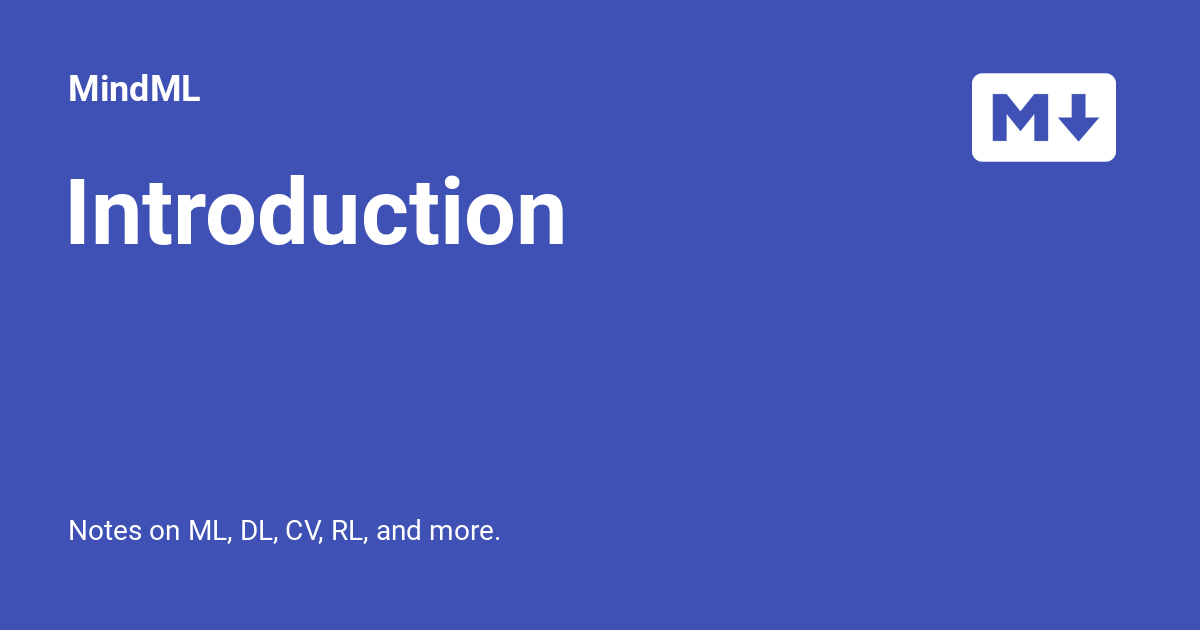
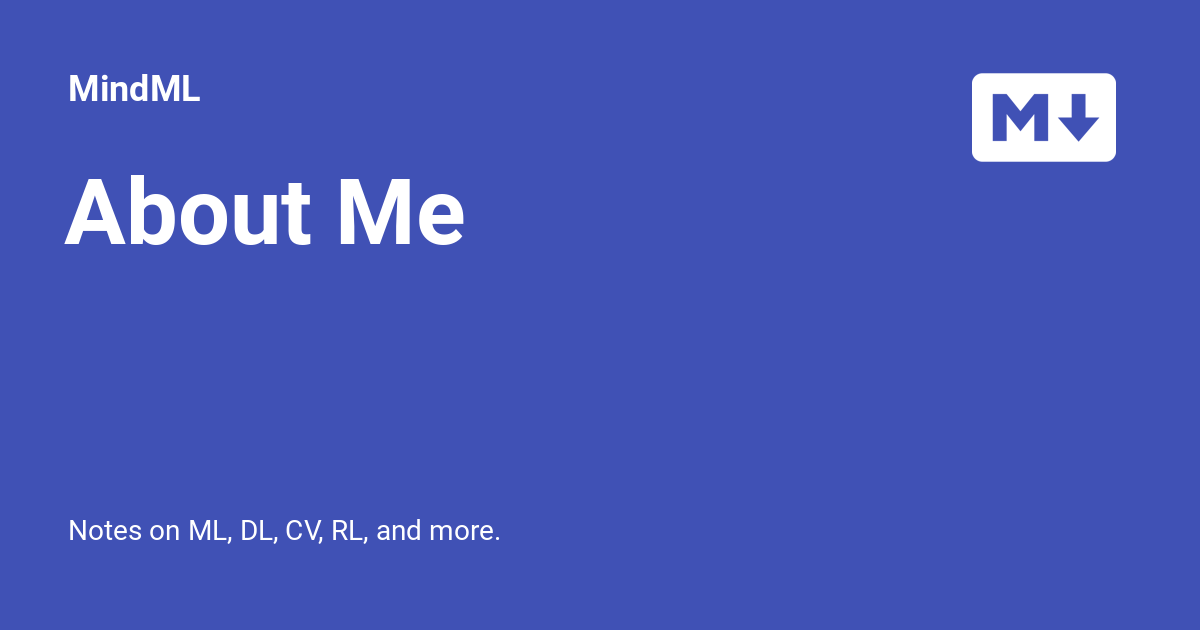
Deployed 42ac131 with MkDocs version: 1.4.3

Changed region(s): [[0.0308, 0.2714, 0.4933, 0.3921]]

diff --git a/Notes/Graph_Neural_Networks/icl-over-graphs/index.html b/Notes/Graph_Neural_Networks/icl-over-graphs/index.html
@@ -251,7 +251,7 @@
 
   <li class="md-tabs__item">
     <a href="../../.." class="md-tabs__link">
-      Introduction
+      About Me
     </a>
   </li>
 
@@ -340,7 +340,7 @@
   
     <li class="md-nav__item">
       <a href="../../.." class="md-nav__link">
-        Introduction
+        About Me
       </a>
     </li>
   
@@ -433,9 +433,54 @@
         
       
       
+        <label class="md-nav__link md-nav__link--active" for="__toc">
+          ICL over Graphs
+          <span class="md-nav__icon md-icon"></span>
+        </label>
+      
       <a href="./" class="md-nav__link md-nav__link--active">
         ICL over Graphs
       </a>
+      
+        
+
+<nav class="md-nav md-nav--secondary" aria-label="Table of contents">
+  
+  
+  
+    
+  
+  
+    <label class="md-nav__title" for="__toc">
+      <span class="md-nav__icon md-icon"></span>
+      Table of contents
+    </label>
+    <ul class="md-nav__list" data-md-component="toc" data-md-scrollfix>
+      
+        <li class="md-nav__item">
+  <a href="#introduction" class="md-nav__link">
+    Introduction
+  </a>
+  
+</li>
+      
+        <li class="md-nav__item">
+  <a href="#challenges" class="md-nav__link">
+    Challenges
+  </a>
+  
+</li>
+      
+        <li class="md-nav__item">
+  <a href="#_1" class="md-nav__link">
+    
+  </a>
+  
+</li>
+      
+    </ul>
+  
+</nav>
       
     </li>
   
@@ -529,6 +574,35 @@
     
   
   
+    <label class="md-nav__title" for="__toc">
+      <span class="md-nav__icon md-icon"></span>
+      Table of contents
+    </label>
+    <ul class="md-nav__list" data-md-component="toc" data-md-scrollfix>
+      
+        <li class="md-nav__item">
+  <a href="#introduction" class="md-nav__link">
+    Introduction
+  </a>
+  
+</li>
+      
+        <li class="md-nav__item">
+  <a href="#challenges" class="md-nav__link">
+    Challenges
+  </a>
+  
+</li>
+      
+        <li class="md-nav__item">
+  <a href="#_1" class="md-nav__link">
+    
+  </a>
+  
+</li>
+      
+    </ul>
+  
 </nav>
                   </div>
                 </div>
@@ -562,11 +636,14 @@
 
 
 <h1 id="icl-over-graphs">ICL over Graphs<a class="headerlink" href="#icl-over-graphs" title="Permanent link">&para;</a></h1>
-<p>In this note, I will cover the following paper <a href="https://arxiv.org/abs/2305.12600">"PRODIGY : Enabling in-context learning over graphs"</a>. </p>
-<h1 id="introduction">Introduction<a class="headerlink" href="#introduction" title="Permanent link">&para;</a></h1>
-<p>We can easily infer from <a href="../../Miscellaneous/in-context-learning/">In-context Learning (ICL)</a> that the in-context learning is a novel and one of the most intriguing capabilities of language models. However, how to enable in-context learning over graphs is still an unexplored question.</p>
+<p>In this note, I will cover the following paper <a href="https://arxiv.org/abs/2305.12600">"PRODIGY : Enabling in-context learning over graphs"</a>.</p>
+<blockquote>
+<p>Definition of in-context learning (ICL) is covered in <a href="../../Miscellaneous/in-context-learning/">In-context Learning (ICL)</a>.</p>
+</blockquote>
+<h2 id="introduction">Introduction<a class="headerlink" href="#introduction" title="Permanent link">&para;</a></h2>
+<p>We can easily infer that the in-context learning is a novel and one of the most intriguing capabilities of language models. However, how to enable in-context learning over graphs is still an unexplored question.</p>
 <p>An in-context learner for graphs should be able to solve novel tasks on novel graphs. For example, give music product recommendations on Spotify when being trained on Amazon purchasing graph. </p>
-<h1 id="challenges">Challenges<a class="headerlink" href="#challenges" title="Permanent link">&para;</a></h1>
+<h2 id="challenges">Challenges<a class="headerlink" href="#challenges" title="Permanent link">&para;</a></h2>
 <ol>
 <li>How to formulate and represent node-, edge- and graph-level tasks over graphs with a <em>unified task representation</em> that allows the model to solve diverse tasks without the need for retraining or parameter tuning.</li>
 <li>How to design model architecture and pre-training objectives that enable in-context learning capabilities across <em>diverse tasks</em> and <em>diverse graphs</em> in the unified task representation.</li>
@@ -575,13 +652,14 @@
 <div class="language-text highlight"><pre><span></span><code><span id="__span-0-1"><a id="__codelineno-0-1" name="__codelineno-0-1" href="#__codelineno-0-1"></a>Achieving in-context learning requires generalizing across different graphs and
 </span><span id="__span-0-2"><a id="__codelineno-0-2" name="__codelineno-0-2" href="#__codelineno-0-2"></a>tasks without fine-tuning or parameter tuning.
 </span></code></pre></div>
+<h2 id="_1"><a class="headerlink" href="#_1" title="Permanent link">&para;</a></h2>
 
   <hr>
 <div class="md-source-file">
   <small>
     
       Last update:
-      <span class="git-revision-date-localized-plugin git-revision-date-localized-plugin-datetime">July 2, 2023 07:47:41</span>
+      <span class="git-revision-date-localized-plugin git-revision-date-localized-plugin-datetime">July 2, 2023 08:29:24</span>
       
         <br>
         Created:
@@ -616,7 +694,7 @@
       <nav class="md-footer__inner md-grid" aria-label="Footer" >
         
           
-          <a href="../../.." class="md-footer__link md-footer__link--prev" aria-label="Previous: Introduction" rel="prev">
+          <a href="../../.." class="md-footer__link md-footer__link--prev" aria-label="Previous: About Me" rel="prev">
             <div class="md-footer__button md-icon">
               <svg xmlns="http://www.w3.org/2000/svg" viewBox="0 0 24 24"><path d="M20 11v2H8l5.5 5.5-1.42 1.42L4.16 12l7.92-7.92L13.5 5.5 8 11h12Z"/></svg>
             </div>
@@ -625,7 +703,7 @@
                 Previous
               </span>
               <div class="md-ellipsis">
-                Introduction
+                About Me
               </div>
             </div>
           </a>

diff --git a/index.html b/index.html
@@ -55,7 +55,7 @@
       
         <meta  property="og:type"  content="website" >
       
-        <meta  property="og:title"  content="Introduction" >
+        <meta  property="og:title"  content="About Me" >
       
         <meta  property="og:description"  content="Notes on ML, DL, CV, RL, and more." >
       
@@ -71,7 +71,7 @@
       
         <meta  name="twitter:card"  content="summary_large_image" >
       
-        <meta  name="twitter:title"  content="Introduction" >
+        <meta  name="twitter:title"  content="About Me" >
       
         <meta  name="twitter:description"  content="Notes on ML, DL, CV, RL, and more." >
       
@@ -112,7 +112,7 @@
     <div data-md-component="skip">
       
         
-        <a href="#introduction" class="md-skip">
+        <a href="#about-me" class="md-skip">
           Skip to content
         </a>
       
@@ -147,7 +147,7 @@
         <div class="md-header__topic" data-md-component="header-topic">
           <span class="md-ellipsis">
             
-              Introduction
+              About Me
             
           </span>
         </div>
@@ -251,7 +251,7 @@
 
   <li class="md-tabs__item">
     <a href="." class="md-tabs__link md-tabs__link--active">
-      Introduction
+      About Me
     </a>
   </li>
 
@@ -347,7 +347,7 @@
       
       
       <a href="." class="md-nav__link md-nav__link--active">
-        Introduction
+        About Me
       </a>
       
     </li>
@@ -555,14 +555,14 @@
   
 
 
-<h1 id="introduction">Introduction<a class="headerlink" href="#introduction" title="Permanent link">&para;</a></h1>
+<h1 id="about-me">About Me<a class="headerlink" href="#about-me" title="Permanent link">&para;</a></h1>
 
   <hr>
 <div class="md-source-file">
   <small>
     
       Last update:
-      <span class="git-revision-date-localized-plugin git-revision-date-localized-plugin-datetime">June 15, 2023 14:55:53</span>
+      <span class="git-revision-date-localized-plugin git-revision-date-localized-plugin-datetime">July 2, 2023 08:29:24</span>
       
         <br>
         Created:

diff --git a/404.html b/404.html
@@ -203,7 +203,7 @@
 
   <li class="md-tabs__item">
     <a href="/MindML/." class="md-tabs__link">
-      Introduction
+      About Me
     </a>
   </li>
 
@@ -290,7 +290,7 @@
   
     <li class="md-nav__item">
       <a href="/MindML/." class="md-nav__link">
-        Introduction
+        About Me
       </a>
     </li>
   

diff --git a/Notes/Miscellaneous/in-context-learning/index.html b/Notes/Miscellaneous/in-context-learning/index.html
@@ -249,7 +249,7 @@
 
   <li class="md-tabs__item">
     <a href="../../.." class="md-tabs__link">
-      Introduction
+      About Me
     </a>
   </li>
 
@@ -338,7 +338,7 @@
   
     <li class="md-nav__item">
       <a href="../../.." class="md-nav__link">
-        Introduction
+        About Me
       </a>
     </li>
   
